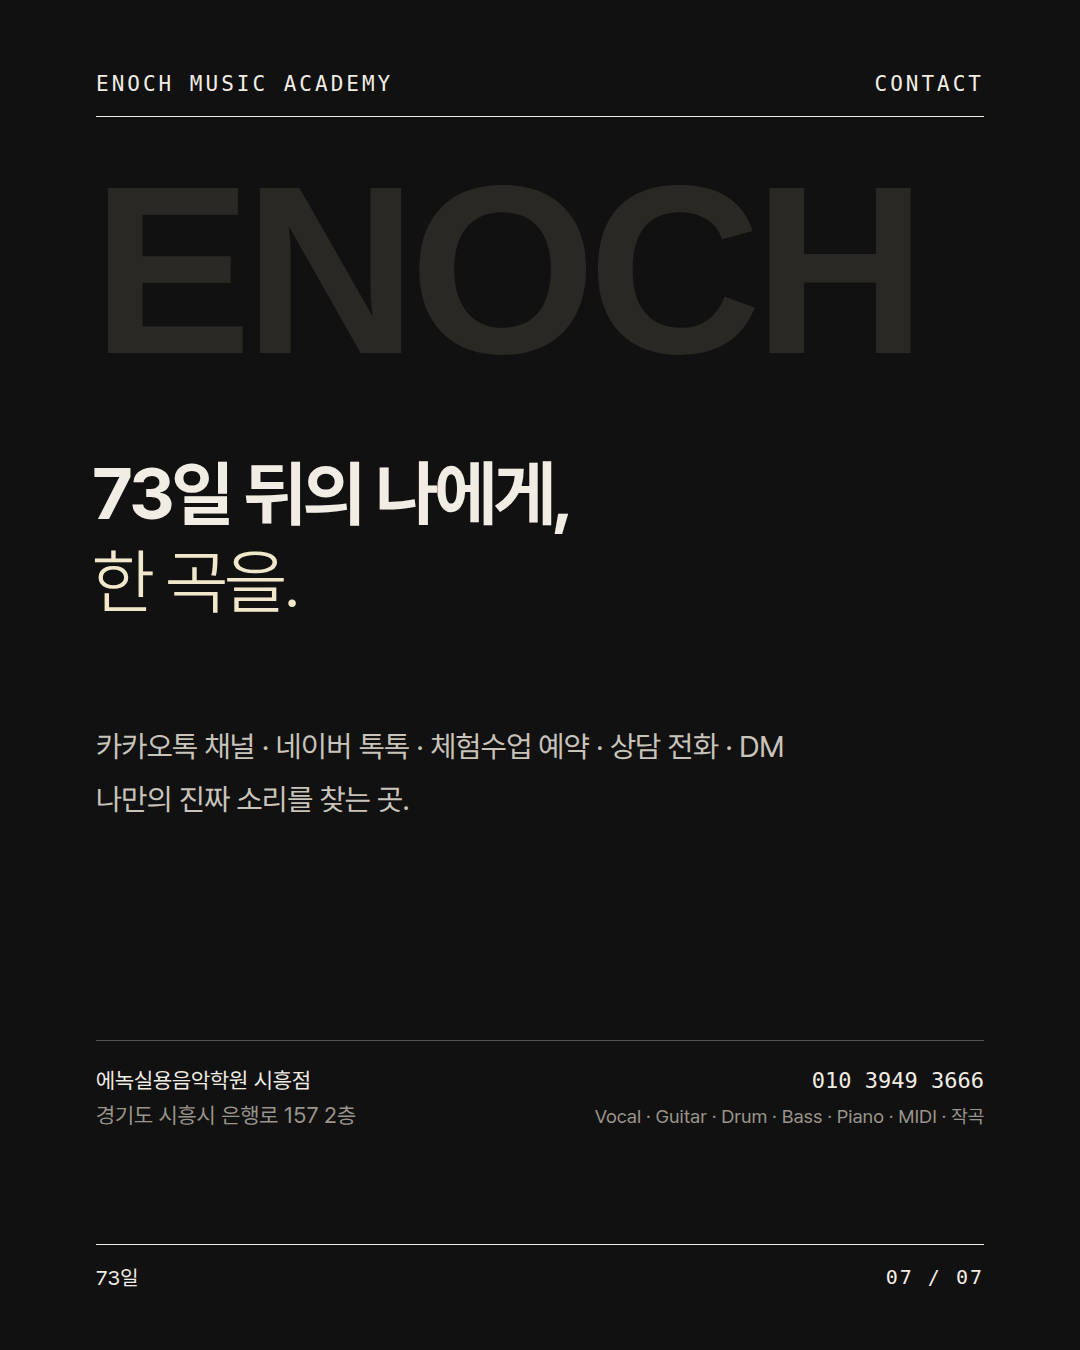
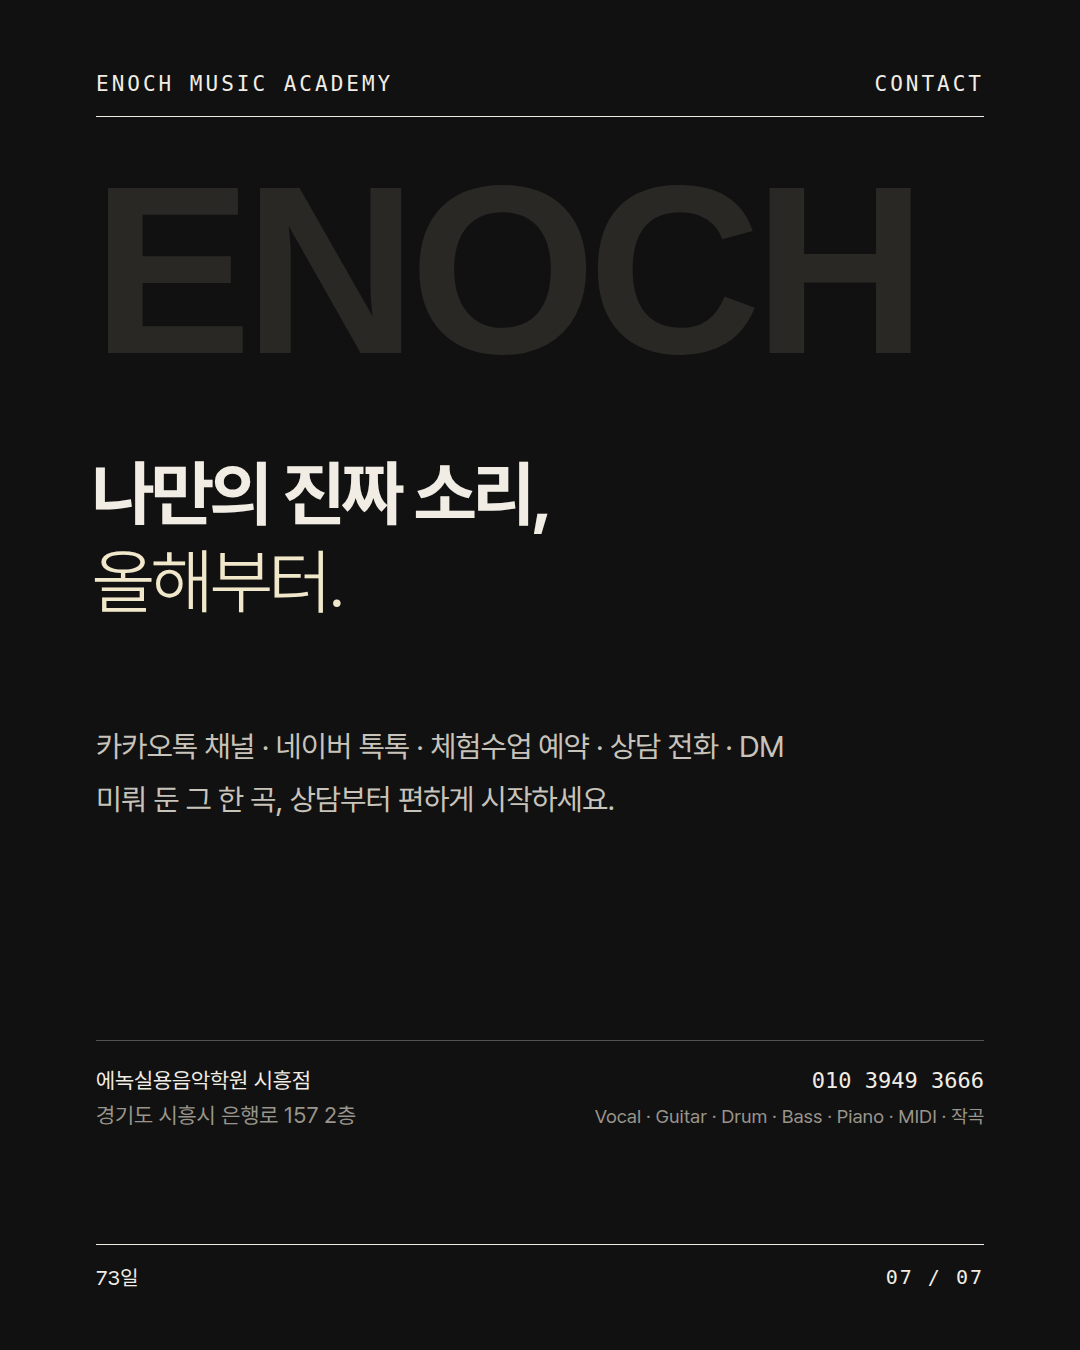
73일: 마지막 장 문구 변경
Claude-Session: https://claude.ai/code/session_01HGbZvgMeYrbU7mY8bwfjyb

Changed region(s): [[0.0917, 0.3422, 0.5194, 0.4667], [0.0917, 0.56, 0.55, 0.6222]]

diff --git a/output/노트_남은날짜/deck.html b/output/노트_남은날짜/deck.html
@@ -83,7 +83,7 @@
 <div class="p a" style="left:96px;right:96px;top:1080px">같은 곡도, 사람마다 다르게 가르칩니다.</div>
 <div class="ft"><span>73일</span><span>06 / 07</span></div></section><section class="s dark" id="c7"><div class="hd"><span>ENOCH MUSIC ACADEMY</span><span>CONTACT</span></div>
 <div class="a" style="left:92px;top:150px;font-family:var(--en);font-weight:700;font-size:240px;letter-spacing:-8px;color:#2A2825;line-height:1">ENOCH</div>
-<div class="h a" style="left:92px;top:450px">73일 뒤의 나에게,<br><span style="font-weight:300;color:var(--bu)">한 곡을.</span></div>
-<div class="p a" style="left:96px;right:96px;top:720px">카카오톡 채널 · 네이버 톡톡 · 체험수업 예약 · 상담 전화 · DM<br>나만의 진짜 소리를 찾는 곳.</div>
+<div class="h a" style="left:92px;top:450px">나만의 진짜 소리,<br><span style="font-weight:300;color:var(--bu)">올해부터.</span></div>
+<div class="p a" style="left:96px;right:96px;top:720px">카카오톡 채널 · 네이버 톡톡 · 체험수업 예약 · 상담 전화 · DM<br>미뤄 둔 그 한 곡, 상담부터 편하게 시작하세요.</div>
 <div class="a" style="left:96px;right:96px;top:1040px;padding-top:22px;border-top:1px solid rgba(241,237,228,.3);display:flex;justify-content:space-between;font-size:22px;line-height:1.6"><span>에녹실용음악학원 시흥점<br><span style="color:#9A958C">경기도 시흥시 은행로 157 2층</span></span><span style="text-align:right;font-family:var(--mono)">010 3949 3666<br><span style="color:#9A958C;font-family:P,sans-serif;font-size:19px">Vocal · Guitar · Drum · Bass · Piano · MIDI · 작곡</span></span></div>
 <div class="ft"><span>73일</span><span>07 / 07</span></div></section></body></html>

diff --git a/output/노트_남은날짜/gen.py b/output/노트_남은날짜/gen.py
@@ -120,8 +120,8 @@ S.append(f"""<section class="s" id="c6">{HD("THE ENOCH WAY")}
 # 07 마무리
 S.append(f"""<section class="s dark" id="c7">{HD("CONTACT")}
 <div class="a" style="left:92px;top:150px;font-family:var(--en);font-weight:700;font-size:240px;letter-spacing:-8px;color:#2A2825;line-height:1">ENOCH</div>
-<div class="h a" style="left:92px;top:450px">{DAYS}일 뒤의 나에게,<br><span style="font-weight:300;color:var(--bu)">한 곡을.</span></div>
-<div class="p a" style="left:96px;right:96px;top:720px">카카오톡 채널 · 네이버 톡톡 · 체험수업 예약 · 상담 전화 · DM<br>나만의 진짜 소리를 찾는 곳.</div>
+<div class="h a" style="left:92px;top:450px">나만의 진짜 소리,<br><span style="font-weight:300;color:var(--bu)">올해부터.</span></div>
+<div class="p a" style="left:96px;right:96px;top:720px">카카오톡 채널 · 네이버 톡톡 · 체험수업 예약 · 상담 전화 · DM<br>미뤄 둔 그 한 곡, 상담부터 편하게 시작하세요.</div>
 {INFO}
 {FT(7)}</section>""")
 open('deck.html','w').write(f'<!doctype html><html lang="ko"><head><meta charset="utf-8"><title>{DAYS}일</title><style>{FONT}{CSS}</style></head><body>'+''.join(S)+'</body></html>')
